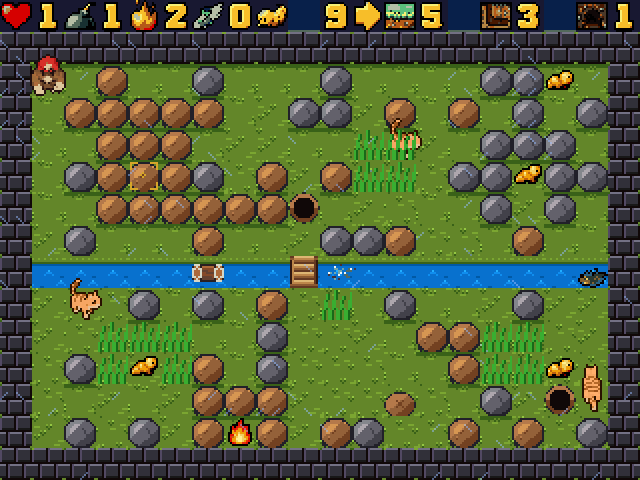
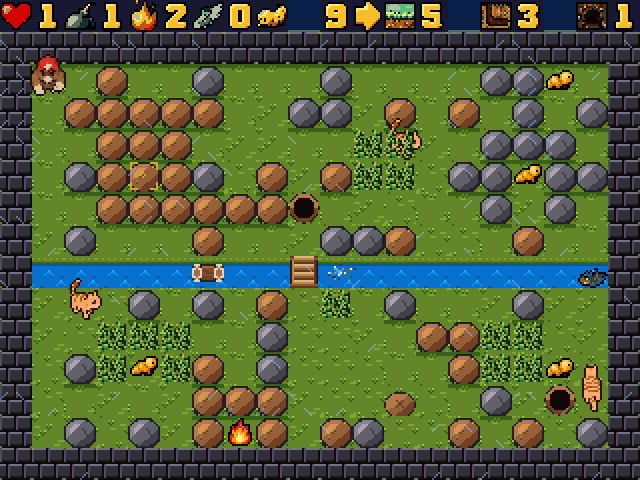
Art: the second AI batch through the pipeline; transparent corn and tall grass overlays; preview shots
The consistency pass (cutting, scale, anchoring, family palettes, outline, facing with auto-mirror,
seams) takes all 291 GENERATED strips: 291 imported, 12 flags on 9 strips. corn_v2 and tall_grass_v2
now replace the full-cell corn and tall grass when imported (plants colour family, no outline, a
tileset no longer redraws them: overlays.txt), so the moles show through the stalks. The preview build
keeps the code-drawn tileset (the v2 AI tiles lose the walls underground); make preview also writes
docs/art-preview/tiles-compare-v2.png (code vs v2, every season's surface and underground) and more
in-game shots (each season, the bosses, corn over a mole, fog, night, battle, co-op). TODO.md: Review
notes only (no Status changed).

diff --git a/tools/tiles_compare.py b/tools/tiles_compare.py
@@ -1,10 +1,11 @@
 #!/usr/bin/env python3
 """Side-by-side comparison of two terrain tilesets in the game (make preview):
 
-    tiles_compare.py <headless A> <label A> <headless B> <label B> <out.png>
+    tiles_compare.py <headless A> <label A> <headless B> <label B> <out.png> [all]
 
-The same three scenes (spring surface, underground, winter) are captured with both headless
-runners; each row shows A and B at 1x, then the middle of the screen of A and B at 2x.
+The same scenes are captured with both headless runners: three (spring surface, underground,
+winter), or with "all" the surface and an underground of each season (8 rows); each row shows A
+and B at 1x, then the middle of the screen of A and B at 2x.
 MIT licence, (c) 2026 Pierre-Louis Boyer (8BCraft).
 """
 import os
@@ -17,6 +18,14 @@ from PIL import Image, ImageDraw
 SCENES = [("spring surface (spring-3)", ["--opt", "level=spring-3"]),
           ("underground (spring-6, depth 1)", ["--opt", "level=spring-6", "--opt", "view=1"]),
           ("winter (winter-1)", ["--opt", "level=winter-1"])]
+SCENES_ALL = [("spring surface (spring-3)", ["--opt", "level=spring-3"]),
+              ("spring underground (spring-6, depth 1)", ["--opt", "level=spring-6", "--opt", "view=1"]),
+              ("summer surface (summer-2)", ["--opt", "level=summer-2"]),
+              ("summer underground (summer-6, depth 1)", ["--opt", "level=summer-6", "--opt", "view=1"]),
+              ("autumn surface (autumn-2)", ["--opt", "level=autumn-2"]),
+              ("autumn underground (autumn-3, depth 1)", ["--opt", "level=autumn-3", "--opt", "view=1"]),
+              ("winter surface (winter-1)", ["--opt", "level=winter-1"]),
+              ("winter underground (winter-4, depth 1)", ["--opt", "level=winter-4", "--opt", "view=1"])]
 
 
 def shot(exe, args, path):
@@ -27,16 +36,17 @@ def shot(exe, args, path):
 
 def main():
     ea, la, eb, lb, out = sys.argv[1:6]
+    scenes = SCENES_ALL if len(sys.argv) > 6 and sys.argv[6] == "all" else SCENES
     tmp = tempfile.mkdtemp()
-    W, H, G, T = 256, 224, 8, 14
+    W, H, G, T = 320, 240, 8, 14
     CW, CH = 128, 112                           # 2x crop: the middle of the playfield
     width = 2 * W + 4 * CW + 4 * G
-    img = Image.new("RGB", (width, len(SCENES) * (H + T + G) + T), (24, 24, 32))
+    img = Image.new("RGB", (width, len(scenes) * (H + T + G) + T), (24, 24, 32))
     d = ImageDraw.Draw(img)
     heads = [(0, la + " 1x"), (W + G, lb + " 1x"), (2 * W + 2 * G, la + " 2x"), (2 * W + 3 * G + 2 * CW, lb + " 2x")]
     for x, t in heads:
         d.text((x + 2, 1), t, fill=(255, 255, 255))
-    for i, (name, args) in enumerate(SCENES):
+    for i, (name, args) in enumerate(scenes):
         y = T + i * (H + T + G)
         d.text((2, y), name, fill=(255, 220, 120))
         y += T

diff --git a/tools/art_sync.py b/tools/art_sync.py
@@ -47,6 +47,9 @@ sys.path.insert(0, os.path.join(GAME, "tools"))
 
 STATUSES = ("TODO", "GENERATED", "VALIDATED", "REJECTED")
 FILL_GROUPS = ("terrain", "terrain_v2", "propbg")   # strips whose frames fill their cell
+# transparent overlays (extras) that take the place of a props cell when they are imported: the game draws corn
+# and tall grass over the characters too, so the overlay must let them show through its gaps
+OVERLAYS = {"corn_v2": "corn", "tall_grass_v2": "tall_grass"}
 V2_STYLE = ("very low detail, 3-4 flat shades per material, large clear shapes, no noise or texture "
             "speckles, designed to be displayed at 16x16 pixels, strong silhouettes, seamless")
 LOGO_SIZE = (256, 64)
@@ -461,6 +464,15 @@ def sync(args, report_print=print):
             imported[left] = flip(imported[s.id])
             report.append((left, "", "mirrored from %s (no imported left strip)" % s.id))
 
+    # the transparent overlays replace the full-cell corn and tall grass (a tileset must not redraw them then:
+    # overlays.txt next to the sheets lists them for the asset build)
+    overlays = []
+    for v2, base in sorted(OVERLAYS.items()):
+        if v2 in imported and base in strips:
+            imported[base] = imported[v2]
+            overlays.append(base)
+            report.append((base, "", "replaced by the transparent overlay %s" % v2))
+
     # assemble the sheets: placeholders + imported cells
     out_dir = args.out
     written = []
@@ -505,6 +517,12 @@ def sync(args, report_print=print):
     for sheet, n, im in written:
         im.save(os.path.join(out_dir, sheets.SHEETS[sheet]["file"]))
     logo.save(os.path.join(out_dir, "title_logo.png"))
+    ov = os.path.join(out_dir, "overlays.txt")
+    if overlays:
+        with open(ov, "w", encoding="utf-8", newline="\n") as f:
+            f.write("\n".join(overlays) + "\n")
+    elif os.path.exists(ov):
+        os.remove(ov)
     if v2:
         d = os.path.join(out_dir, "tilesets", "ai_v2")
         os.makedirs(d, exist_ok=True)

diff --git a/tools/art_consistency.py b/tools/art_consistency.py
@@ -52,7 +52,10 @@ FILL_GROUPS = ("terrain", "terrain_v2", "propbg")
 SOLID_IDS = ("hud_panel",)
 EDGE_ANCHOR = {"expl_h": "X", "expl_v": "Y", "expl_end_left": "r", "expl_end_right": "l",
                "expl_end_up": "b", "expl_end_down": "t"}
-NO_OUTLINE_IDS = ("hud_panel", "tomato_shadow", "spray", "wind", "steam")
+NO_OUTLINE_IDS = ("hud_panel", "tomato_shadow", "spray", "wind", "steam", "corn_v2", "tall_grass_v2")
+# transparent overlays drawn in a props cell's place (tools/art_sync.py OVERLAYS): that prop's colour family,
+# no outline (thin stalks would turn into outline only)
+OVERLAY_OF = {"corn_v2": "corn", "tall_grass_v2": "tall_grass"}
 LOGO_SIZE = (256, 64)
 # tiles that are repeated next to each other in the levels: they must tile seamlessly
 SEAMLESS = {"grass": "hv", "soft_dirt": "hv", "tunnel": "hv", "water": "hv", "ice": "hv", "mud": "hv",
@@ -98,6 +101,9 @@ def palette_key(s):
     the terrain, or a colour family of the terrain-like props (sheets.PROP_PALETTES)."""
     if s.group in ("terrain", "terrain_v2"):
         return (s.group, s.season)
+    if s.id in OVERLAY_OF:
+        import sheets
+        return ("propbg", sheets.prop_palette(OVERLAY_OF[s.id]))
     if s.group == "propbg":
         import sheets
         return ("propbg", sheets.prop_palette(s.entry.name))

diff --git a/games/bombermole/tools/build_assets.py b/games/bombermole/tools/build_assets.py
@@ -167,10 +167,14 @@ def main():
         extra_img = rsasset.load(p) if os.path.exists(p) else None
     # a tileset may also redraw some props and sprites (tilesets/<name>/<entry>.png, frames side by side)
     prop_override = {}
+    keep = set()                  # transparent AI overlays imported by art_sync: no tileset redraws them
+    ov = os.path.join(a.art, "overlays.txt")
+    if os.path.exists(ov):
+        keep = set(open(ov, encoding="utf-8").read().split())
     if a.tileset:
         for e in sheets.ENTRIES:
             q = os.path.join(a.tileset, e.name + ".png")
-            if e.sheet == "props" and os.path.exists(q):
+            if e.sheet == "props" and os.path.exists(q) and e.name not in keep:
                 prop_override[e.name] = rsasset.load(q)
     c, h = [], []
     c.append("/* Generated by games/bombermole/tools/build_assets.py from %s (tiles: %s). Do not edit. */" %

diff --git a/games/bombermole/art/incoming/TODO.md b/games/bombermole/art/incoming/TODO.md
@@ -71,9 +71,9 @@ Rules:
 | mole_walk_left | GENERATED | characters.png | 16x16 | 3 | The mole walking LEFT (side view, nose pointing left). 3 frames left to right, evenly spaced: 1) standing; 2) left foot forward; 3) right foot forward. Frame size 16x16 (draw each about 128x128). Flat magenta around the drawing. | from first-batch sheet |
 | mole_walk_right | GENERATED | characters.png | 16x16 | 3 | The mole walking RIGHT (side view, nose pointing right). 3 frames left to right, evenly spaced: 1) standing; 2) left foot forward; 3) right foot forward. Frame size 16x16 (draw each about 128x128). Flat magenta around the drawing. | from first-batch sheet |
 | mole_dig_down | GENERATED | characters.png | 16x16 | 2 | The mole digging DOWNWARD (front view), claws scraping the ground in front, dirt clods flying. 2 frames left to right, evenly spaced: 1) claws raised; 2) claws down, dirt flying. Frame size 16x16 (draw each about 128x128). Flat magenta around the drawing. | from first-batch sheet |
-| mole_dig_up | GENERATED | characters.png | 16x16 | 2 | The mole digging UPWARD (back view), claws scraping above, dirt falling. 2 frames left to right, evenly spaced: 1) claws raised; 2) claws down, dirt flying. Frame size 16x16 (draw each about 128x128). Flat magenta around the drawing. | from first-batch sheet |
-| mole_dig_left | GENERATED | characters.png | 16x16 | 2 | The mole digging to the LEFT (side view), claws forward, dirt flying. 2 frames left to right, evenly spaced: 1) claws back; 2) claws forward, dirt flying. Frame size 16x16 (draw each about 128x128). Flat magenta around the drawing. | from first-batch sheet |
-| mole_dig_right | GENERATED | characters.png | 16x16 | 2 | The mole digging to the RIGHT (side view), claws forward, dirt flying. 2 frames left to right, evenly spaced: 1) claws back; 2) claws forward, dirt flying. Frame size 16x16 (draw each about 128x128). Flat magenta around the drawing. | from first-batch sheet |
+| mole_dig_up | GENERATED | characters.png | 16x16 | 2 | The mole digging UPWARD (back view), claws scraping above, dirt falling. 2 frames left to right, evenly spaced: 1) claws raised; 2) claws down, dirt flying. Frame size 16x16 (draw each about 128x128). Flat magenta around the drawing. | from first-batch sheet Review: the flying dirt spills out of the 24x24 cell (4-5% cropped): keep the dirt closer to the mole. |
+| mole_dig_left | GENERATED | characters.png | 16x16 | 2 | The mole digging to the LEFT (side view), claws forward, dirt flying. 2 frames left to right, evenly spaced: 1) claws back; 2) claws forward, dirt flying. Frame size 16x16 (draw each about 128x128). Flat magenta around the drawing. | from first-batch sheet Review: the flying dirt spills out of the 24x24 cell (4-6% cropped): keep the dirt closer to the mole. |
+| mole_dig_right | GENERATED | characters.png | 16x16 | 2 | The mole digging to the RIGHT (side view), claws forward, dirt flying. 2 frames left to right, evenly spaced: 1) claws back; 2) claws forward, dirt flying. Frame size 16x16 (draw each about 128x128). Flat magenta around the drawing. | from first-batch sheet Review: the flying dirt spills out of the 24x24 cell (5-8% cropped): keep the dirt closer to the mole. |
 | mole_place_bomb | GENERATED | characters.png | 16x16 | 1 | The mole (front view) setting a round black bomb down in front of its feet. One frame. Frame size 16x16 (draw each about 128x128). Flat magenta around the drawing. | from first-batch sheet |
 | mole_hurt | GENERATED | characters.png | 16x16 | 1 | The mole (front view) hurt: flinching, eyes squeezed shut, small yellow stars around the helmet. One frame. Frame size 16x16 (draw each about 128x128). Flat magenta around the drawing. | from first-batch sheet |
 | mole_death | GENERATED | characters.png | 16x16 | 4 | The mole knocked out. 4 frames left to right, evenly spaced: 1) dazed, spiral eyes, stars; 2) tipping over backwards; 3) lying flat on its back; 4) a little ghost of the mole floating up with a halo. Frame size 16x16 (draw each about 128x128). Flat magenta around the drawing. | from first-batch sheet |
@@ -235,7 +235,7 @@ Rules:
 | steam | GENERATED | props.png | 16x16 | 1 | A white puff of steam. One frame. Frame size 16x16 (draw each about 128x128). Flat magenta around the drawing. |  |
 | corn | GENERATED | props.png | 16x16 | 1 | Corn plants seen from above, green stalks with yellow ears (fills the cell). One frame. Frame size 16x16 (draw each about 128x128). Fills the whole cell edge to edge, no magenta inside. |  |
 | ice | GENERATED | props.png | 16x16 | 1 | Slippery ice floor (fills the cell, tiles seamlessly), pale blue with white glints. One frame. Frame size 16x16 (draw each about 128x128). Fills the whole cell edge to edge, no magenta inside. |  |
-| thin_ice | GENERATED | props.png | 16x16 | 2 | Thin ice (fills the cell), darker blue-grey, water showing through. 2 frames left to right, evenly spaced: 1) intact; 2) cracked. Frame size 16x16 (draw each about 128x128). Fills the whole cell edge to edge, no magenta inside. |  |
+| thin_ice | GENERATED | props.png | 16x16 | 2 | Thin ice (fills the cell), darker blue-grey, water showing through. 2 frames left to right, evenly spaced: 1) intact; 2) cracked. Frame size 16x16 (draw each about 128x128). Fills the whole cell edge to edge, no magenta inside. | Review: not seamless left/right (edges x2.4 the inner contrast): a strip of thin ice shows a grid of seams; regenerate with matching edges. |
 
 ## 7. The other bosses
 
@@ -248,7 +248,7 @@ Rules:
 | splat | GENERATED | props.png | 16x16 | 1 | A squashed tomato splat on the ground (fills the cell, on grass). One frame. Frame size 16x16 (draw each about 128x128). Fills the whole cell edge to edge, no magenta inside. |  |
 | badger | GENERATED | props.png | 32x32 | 4 | The badger (summer mini-boss), 32x32, front view. 4 frames left to right, evenly spaced: 1) walking; 2) walking, other paws; 3) digging, dirt flying; 4) hurt. Frame size 32x32 (draw each about 256x256). Flat magenta around the drawing. |  |
 | fox | GENERATED | props.png | 32x32 | 4 | The fox (autumn boss), 32x32, side view facing LEFT. 4 frames left to right, evenly spaced: 1) running; 2) running, other legs; 3) leaping; 4) hurt, eyes shut. Frame size 32x32 (draw each about 256x256). Flat magenta around the drawing. |  |
-| owl | GENERATED | props.png | 32x32 | 4 | The snowy owl (winter boss), 32x32, front view. 4 frames left to right, evenly spaced: 1) perched, wings folded; 2) flapping, wings half open; 3) swooping, wings spread; 4) hurt, eyes shut. Frame size 32x32 (draw each about 256x256). Flat magenta around the drawing. | Review: frame 3: wings exceed the cell |
+| owl | GENERATED | props.png | 32x32 | 4 | The snowy owl (winter boss), 32x32, front view. 4 frames left to right, evenly spaced: 1) perched, wings folded; 2) flapping, wings half open; 3) swooping, wings spread; 4) hurt, eyes shut. Frame size 32x32 (draw each about 256x256). Flat magenta around the drawing. | Review: frame 3: wings exceed the cell Review: frame 4 (hurt) is 13% outside the 48x48 cell (the stars and a wing are cropped): regenerate it smaller, inside the frame like frames 1-3. |
 
 ## 8. Later gimmicks (planned levels)
 
@@ -288,7 +288,7 @@ Rules:
 | tile_v2_spring_hard_rock | GENERATED | tilesets/ai_v2/tiles.png | 16x16 | 1 | Spring tile v2, hard rock: A hard grey boulder block (bombs only), fills the cell. Style: very low detail, 3-4 flat shades per material, large clear shapes, no noise or texture speckles, designed to be displayed at 16x16 pixels, strong silhouettes, seamless. One frame, 16x16 (draw about 128x128). Spring palette, the same colours as the other spring v2 tiles. Must tile seamlessly; no magenta inside. | Built-in imagegen; exported at requested scale; alpha accepted. |
 | tile_v2_spring_stone | GENERATED | tilesets/ai_v2/tiles.png | 16x16 | 1 | Spring tile v2, stone: An unbreakable block: dark stone bricks, fills the cell. Style: very low detail, 3-4 flat shades per material, large clear shapes, no noise or texture speckles, designed to be displayed at 16x16 pixels, strong silhouettes, seamless. One frame, 16x16 (draw about 128x128). Spring palette, the same colours as the other spring v2 tiles. Must tile seamlessly; no magenta inside. | Built-in imagegen; exported at requested scale; alpha accepted. |
 | tile_v2_spring_roots | GENERATED | tilesets/ai_v2/tiles.png | 16x16 | 1 | Spring tile v2, roots: Tangled tree roots across soil, blocking the way, fills the cell. Style: very low detail, 3-4 flat shades per material, large clear shapes, no noise or texture speckles, designed to be displayed at 16x16 pixels, strong silhouettes, seamless. One frame, 16x16 (draw about 128x128). Spring palette, the same colours as the other spring v2 tiles. Must tile seamlessly; no magenta inside. | Built-in imagegen; exported at requested scale; alpha accepted. |
-| tile_v2_spring_tunnel | GENERATED | tilesets/ai_v2/tiles.png | 16x16 | 1 | Spring tile v2, tunnel: Underground tunnel floor: packed dark earth with pebbles, fills the cell, tiles seamlessly. Style: very low detail, 3-4 flat shades per material, large clear shapes, no noise or texture speckles, designed to be displayed at 16x16 pixels, strong silhouettes, seamless. One frame, 16x16 (draw about 128x128). Spring palette, the same colours as the other spring v2 tiles. Must tile seamlessly; no magenta inside. | Built-in imagegen; exported at requested scale; alpha accepted. |
+| tile_v2_spring_tunnel | GENERATED | tilesets/ai_v2/tiles.png | 16x16 | 1 | Spring tile v2, tunnel: Underground tunnel floor: packed dark earth with pebbles, fills the cell, tiles seamlessly. Style: very low detail, 3-4 flat shades per material, large clear shapes, no noise or texture speckles, designed to be displayed at 16x16 pixels, strong silhouettes, seamless. One frame, 16x16 (draw about 128x128). Spring palette, the same colours as the other spring v2 tiles. Must tile seamlessly; no magenta inside. | Built-in imagegen; exported at requested scale; alpha accepted. Review: underground the v2 tunnel floor and soft dirt are too close in value: walls and corridors are hard to tell apart (the code tiles stay the default); a darker, flatter tunnel floor would fix it. |
 | tile_v2_spring_hole_down | GENERATED | tilesets/ai_v2/tiles.png | 16x16 | 1 | Spring tile v2, hole down: A burrow hole going down: black hole with an earthen rim, on tunnel floor, fills the cell. Style: very low detail, 3-4 flat shades per material, large clear shapes, no noise or texture speckles, designed to be displayed at 16x16 pixels, strong silhouettes, seamless. One frame, 16x16 (draw about 128x128). Spring palette, the same colours as the other spring v2 tiles. Must tile seamlessly; no magenta inside. | Built-in imagegen; exported at requested scale; alpha accepted. |
 | tile_v2_spring_hole_up | TODO | tilesets/ai_v2/tiles.png | 16x16 | 1 | Spring tile v2, hole up: A hole up: light falling from above onto the tunnel floor, fills the cell. Style: very low detail, 3-4 flat shades per material, large clear shapes, no noise or texture speckles, designed to be displayed at 16x16 pixels, strong silhouettes, seamless. One frame, 16x16 (draw about 128x128). Spring palette, the same colours as the other spring v2 tiles. Must tile seamlessly; no magenta inside. | Obsolete: ladders are the way up. |
 | tile_v2_spring_ladder | GENERATED | tilesets/ai_v2/tiles.png | 16x16 | 1 | Spring tile v2, ladder: A wooden ladder going up, on tunnel floor, fills the cell. Style: very low detail, 3-4 flat shades per material, large clear shapes, no noise or texture speckles, designed to be displayed at 16x16 pixels, strong silhouettes, seamless. One frame, 16x16 (draw about 128x128). Spring palette, the same colours as the other spring v2 tiles. Must tile seamlessly; no magenta inside. | Built-in imagegen; exported at requested scale; alpha accepted. |
@@ -309,12 +309,12 @@ Rules:
 | tile_v2_spring_water_edge | GENERATED | tilesets/ai_v2/tiles_extra.png | 16x16 | 1 | Spring tile v2, water edge: Water bank: the water tile with a strip of grass bank along its TOP edge. Style: very low detail, 3-4 flat shades per material, large clear shapes, no noise or texture speckles, designed to be displayed at 16x16 pixels, strong silhouettes, seamless. One frame, 16x16 (draw about 128x128). Spring palette, the same colours as the other spring v2 tiles. Must tile seamlessly; no magenta inside. | Built-in imagegen; exported at requested scale; alpha accepted. |
 | tile_v2_summer_grass | GENERATED | tilesets/ai_v2/tiles.png | 16x16 | 1 | Summer tile v2, grass: Surface floor: short grass (in WINTER: snow-covered ground), fills the cell, tiles seamlessly. Style: very low detail, 3-4 flat shades per material, large clear shapes, no noise or texture speckles, designed to be displayed at 16x16 pixels, strong silhouettes, seamless. One frame, 16x16 (draw about 128x128). Summer palette, the same colours as the other summer v2 tiles. Must tile seamlessly; no magenta inside. | Built-in imagegen; exported at requested scale; alpha accepted. |
 | tile_v2_summer_grass_edge | GENERATED | tilesets/ai_v2/tiles.png | 16x16 | 1 | Summer tile v2, grass edge: Surface floor with a darker shadow band along the TOP edge (a wall stands above), fills the cell. Style: very low detail, 3-4 flat shades per material, large clear shapes, no noise or texture speckles, designed to be displayed at 16x16 pixels, strong silhouettes, seamless. One frame, 16x16 (draw about 128x128). Summer palette, the same colours as the other summer v2 tiles. Must tile seamlessly; no magenta inside. | Built-in imagegen; exported at requested scale; alpha accepted. |
-| tile_v2_summer_soft_dirt | GENERATED | tilesets/ai_v2/tiles.png | 16x16 | 1 | Summer tile v2, soft dirt: A block of soft diggable soil, slightly raised (in SUMMER: dry cracked sandy soil), fills the cell. Style: very low detail, 3-4 flat shades per material, large clear shapes, no noise or texture speckles, designed to be displayed at 16x16 pixels, strong silhouettes, seamless. One frame, 16x16 (draw about 128x128). Summer palette, the same colours as the other summer v2 tiles. Must tile seamlessly; no magenta inside. | Built-in imagegen; exported at requested scale; alpha accepted. |
+| tile_v2_summer_soft_dirt | GENERATED | tilesets/ai_v2/tiles.png | 16x16 | 1 | Summer tile v2, soft dirt: A block of soft diggable soil, slightly raised (in SUMMER: dry cracked sandy soil), fills the cell. Style: very low detail, 3-4 flat shades per material, large clear shapes, no noise or texture speckles, designed to be displayed at 16x16 pixels, strong silhouettes, seamless. One frame, 16x16 (draw about 128x128). Summer palette, the same colours as the other summer v2 tiles. Must tile seamlessly; no magenta inside. | Built-in imagegen; exported at requested scale; alpha accepted. Review: not seamless top/bottom (x2.1): dirt walls show seams. |
 | tile_v2_summer_dirt_crack | GENERATED | tilesets/ai_v2/tiles.png | 16x16 | 1 | Summer tile v2, dirt crack: The same soil block, half dug: deep cracks, fills the cell. Style: very low detail, 3-4 flat shades per material, large clear shapes, no noise or texture speckles, designed to be displayed at 16x16 pixels, strong silhouettes, seamless. One frame, 16x16 (draw about 128x128). Summer palette, the same colours as the other summer v2 tiles. Must tile seamlessly; no magenta inside. | Built-in imagegen; exported at requested scale; alpha accepted. |
 | tile_v2_summer_hard_rock | GENERATED | tilesets/ai_v2/tiles.png | 16x16 | 1 | Summer tile v2, hard rock: A hard grey boulder block (bombs only), fills the cell. Style: very low detail, 3-4 flat shades per material, large clear shapes, no noise or texture speckles, designed to be displayed at 16x16 pixels, strong silhouettes, seamless. One frame, 16x16 (draw about 128x128). Summer palette, the same colours as the other summer v2 tiles. Must tile seamlessly; no magenta inside. | Built-in imagegen; exported at requested scale; alpha accepted. |
 | tile_v2_summer_stone | GENERATED | tilesets/ai_v2/tiles.png | 16x16 | 1 | Summer tile v2, stone: An unbreakable block: dark stone bricks, fills the cell. Style: very low detail, 3-4 flat shades per material, large clear shapes, no noise or texture speckles, designed to be displayed at 16x16 pixels, strong silhouettes, seamless. One frame, 16x16 (draw about 128x128). Summer palette, the same colours as the other summer v2 tiles. Must tile seamlessly; no magenta inside. | Built-in imagegen; exported at requested scale; alpha accepted. |
 | tile_v2_summer_roots | GENERATED | tilesets/ai_v2/tiles.png | 16x16 | 1 | Summer tile v2, roots: Tangled tree roots across soil, blocking the way, fills the cell. Style: very low detail, 3-4 flat shades per material, large clear shapes, no noise or texture speckles, designed to be displayed at 16x16 pixels, strong silhouettes, seamless. One frame, 16x16 (draw about 128x128). Summer palette, the same colours as the other summer v2 tiles. Must tile seamlessly; no magenta inside. | Built-in imagegen; exported at requested scale; alpha accepted. |
-| tile_v2_summer_tunnel | GENERATED | tilesets/ai_v2/tiles.png | 16x16 | 1 | Summer tile v2, tunnel: Underground tunnel floor: packed dark earth with pebbles, fills the cell, tiles seamlessly. Style: very low detail, 3-4 flat shades per material, large clear shapes, no noise or texture speckles, designed to be displayed at 16x16 pixels, strong silhouettes, seamless. One frame, 16x16 (draw about 128x128). Summer palette, the same colours as the other summer v2 tiles. Must tile seamlessly; no magenta inside. | Built-in imagegen; exported at requested scale; alpha accepted. |
+| tile_v2_summer_tunnel | GENERATED | tilesets/ai_v2/tiles.png | 16x16 | 1 | Summer tile v2, tunnel: Underground tunnel floor: packed dark earth with pebbles, fills the cell, tiles seamlessly. Style: very low detail, 3-4 flat shades per material, large clear shapes, no noise or texture speckles, designed to be displayed at 16x16 pixels, strong silhouettes, seamless. One frame, 16x16 (draw about 128x128). Summer palette, the same colours as the other summer v2 tiles. Must tile seamlessly; no magenta inside. | Built-in imagegen; exported at requested scale; alpha accepted. Review: underground the v2 tunnel floor and soft dirt are too close in value: walls and corridors are hard to tell apart (the code tiles stay the default); a darker, flatter tunnel floor would fix it. |
 | tile_v2_summer_hole_down | GENERATED | tilesets/ai_v2/tiles.png | 16x16 | 1 | Summer tile v2, hole down: A burrow hole going down: black hole with an earthen rim, on tunnel floor, fills the cell. Style: very low detail, 3-4 flat shades per material, large clear shapes, no noise or texture speckles, designed to be displayed at 16x16 pixels, strong silhouettes, seamless. One frame, 16x16 (draw about 128x128). Summer palette, the same colours as the other summer v2 tiles. Must tile seamlessly; no magenta inside. | Built-in imagegen; exported at requested scale; alpha accepted. |
 | tile_v2_summer_hole_up | TODO | tilesets/ai_v2/tiles.png | 16x16 | 1 | Summer tile v2, hole up: A hole up: light falling from above onto the tunnel floor, fills the cell. Style: very low detail, 3-4 flat shades per material, large clear shapes, no noise or texture speckles, designed to be displayed at 16x16 pixels, strong silhouettes, seamless. One frame, 16x16 (draw about 128x128). Summer palette, the same colours as the other summer v2 tiles. Must tile seamlessly; no magenta inside. | Obsolete: ladders are the way up. |
 | tile_v2_summer_ladder | GENERATED | tilesets/ai_v2/tiles.png | 16x16 | 1 | Summer tile v2, ladder: A wooden ladder going up, on tunnel floor, fills the cell. Style: very low detail, 3-4 flat shades per material, large clear shapes, no noise or texture speckles, designed to be displayed at 16x16 pixels, strong silhouettes, seamless. One frame, 16x16 (draw about 128x128). Summer palette, the same colours as the other summer v2 tiles. Must tile seamlessly; no magenta inside. | Built-in imagegen; exported at requested scale; alpha accepted. |
@@ -340,7 +340,7 @@ Rules:
 | tile_v2_autumn_hard_rock | GENERATED | tilesets/ai_v2/tiles.png | 16x16 | 1 | Autumn tile v2, hard rock: A hard grey boulder block (bombs only), fills the cell. Style: very low detail, 3-4 flat shades per material, large clear shapes, no noise or texture speckles, designed to be displayed at 16x16 pixels, strong silhouettes, seamless. One frame, 16x16 (draw about 128x128). Autumn palette, the same colours as the other autumn v2 tiles. Must tile seamlessly; no magenta inside. | Built-in imagegen; exported at requested scale; alpha accepted. |
 | tile_v2_autumn_stone | GENERATED | tilesets/ai_v2/tiles.png | 16x16 | 1 | Autumn tile v2, stone: An unbreakable block: dark stone bricks, fills the cell. Style: very low detail, 3-4 flat shades per material, large clear shapes, no noise or texture speckles, designed to be displayed at 16x16 pixels, strong silhouettes, seamless. One frame, 16x16 (draw about 128x128). Autumn palette, the same colours as the other autumn v2 tiles. Must tile seamlessly; no magenta inside. | Built-in imagegen; exported at requested scale; alpha accepted. |
 | tile_v2_autumn_roots | GENERATED | tilesets/ai_v2/tiles.png | 16x16 | 1 | Autumn tile v2, roots: Tangled tree roots across soil, blocking the way, fills the cell. Style: very low detail, 3-4 flat shades per material, large clear shapes, no noise or texture speckles, designed to be displayed at 16x16 pixels, strong silhouettes, seamless. One frame, 16x16 (draw about 128x128). Autumn palette, the same colours as the other autumn v2 tiles. Must tile seamlessly; no magenta inside. | Built-in imagegen; exported at requested scale; alpha accepted. |
-| tile_v2_autumn_tunnel | GENERATED | tilesets/ai_v2/tiles.png | 16x16 | 1 | Autumn tile v2, tunnel: Underground tunnel floor: packed dark earth with pebbles, fills the cell, tiles seamlessly. Style: very low detail, 3-4 flat shades per material, large clear shapes, no noise or texture speckles, designed to be displayed at 16x16 pixels, strong silhouettes, seamless. One frame, 16x16 (draw about 128x128). Autumn palette, the same colours as the other autumn v2 tiles. Must tile seamlessly; no magenta inside. | Built-in imagegen; exported at requested scale; alpha accepted. |
+| tile_v2_autumn_tunnel | GENERATED | tilesets/ai_v2/tiles.png | 16x16 | 1 | Autumn tile v2, tunnel: Underground tunnel floor: packed dark earth with pebbles, fills the cell, tiles seamlessly. Style: very low detail, 3-4 flat shades per material, large clear shapes, no noise or texture speckles, designed to be displayed at 16x16 pixels, strong silhouettes, seamless. One frame, 16x16 (draw about 128x128). Autumn palette, the same colours as the other autumn v2 tiles. Must tile seamlessly; no magenta inside. | Built-in imagegen; exported at requested scale; alpha accepted. Review: underground the v2 tunnel floor and soft dirt are too close in value: walls and corridors are hard to tell apart (the code tiles stay the default); a darker, flatter tunnel floor would fix it. |
 | tile_v2_autumn_hole_down | GENERATED | tilesets/ai_v2/tiles.png | 16x16 | 1 | Autumn tile v2, hole down: A burrow hole going down: black hole with an earthen rim, on tunnel floor, fills the cell. Style: very low detail, 3-4 flat shades per material, large clear shapes, no noise or texture speckles, designed to be displayed at 16x16 pixels, strong silhouettes, seamless. One frame, 16x16 (draw about 128x128). Autumn palette, the same colours as the other autumn v2 tiles. Must tile seamlessly; no magenta inside. | Built-in imagegen; exported at requested scale; alpha accepted. |
 | tile_v2_autumn_hole_up | TODO | tilesets/ai_v2/tiles.png | 16x16 | 1 | Autumn tile v2, hole up: A hole up: light falling from above onto the tunnel floor, fills the cell. Style: very low detail, 3-4 flat shades per material, large clear shapes, no noise or texture speckles, designed to be displayed at 16x16 pixels, strong silhouettes, seamless. One frame, 16x16 (draw about 128x128). Autumn palette, the same colours as the other autumn v2 tiles. Must tile seamlessly; no magenta inside. | Obsolete: ladders are the way up. |
 | tile_v2_autumn_ladder | GENERATED | tilesets/ai_v2/tiles.png | 16x16 | 1 | Autumn tile v2, ladder: A wooden ladder going up, on tunnel floor, fills the cell. Style: very low detail, 3-4 flat shades per material, large clear shapes, no noise or texture speckles, designed to be displayed at 16x16 pixels, strong silhouettes, seamless. One frame, 16x16 (draw about 128x128). Autumn palette, the same colours as the other autumn v2 tiles. Must tile seamlessly; no magenta inside. | Built-in imagegen; exported at requested scale; alpha accepted. |
@@ -366,7 +366,7 @@ Rules:
 | tile_v2_winter_hard_rock | GENERATED | tilesets/ai_v2/tiles.png | 16x16 | 1 | Winter tile v2, hard rock: A hard grey boulder block (bombs only), fills the cell. Style: very low detail, 3-4 flat shades per material, large clear shapes, no noise or texture speckles, designed to be displayed at 16x16 pixels, strong silhouettes, seamless. One frame, 16x16 (draw about 128x128). Winter palette, the same colours as the other winter v2 tiles. Must tile seamlessly; no magenta inside. | Built-in imagegen; exported at requested scale; alpha accepted. |
 | tile_v2_winter_stone | GENERATED | tilesets/ai_v2/tiles.png | 16x16 | 1 | Winter tile v2, stone: An unbreakable block: dark stone bricks, fills the cell. Style: very low detail, 3-4 flat shades per material, large clear shapes, no noise or texture speckles, designed to be displayed at 16x16 pixels, strong silhouettes, seamless. One frame, 16x16 (draw about 128x128). Winter palette, the same colours as the other winter v2 tiles. Must tile seamlessly; no magenta inside. | Built-in imagegen; exported at requested scale; alpha accepted. |
 | tile_v2_winter_roots | GENERATED | tilesets/ai_v2/tiles.png | 16x16 | 1 | Winter tile v2, roots: Tangled tree roots across soil, blocking the way, fills the cell. Style: very low detail, 3-4 flat shades per material, large clear shapes, no noise or texture speckles, designed to be displayed at 16x16 pixels, strong silhouettes, seamless. One frame, 16x16 (draw about 128x128). Winter palette, the same colours as the other winter v2 tiles. Must tile seamlessly; no magenta inside. | Built-in imagegen; exported at requested scale; alpha accepted. |
-| tile_v2_winter_tunnel | GENERATED | tilesets/ai_v2/tiles.png | 16x16 | 1 | Winter tile v2, tunnel: Underground tunnel floor: packed dark earth with pebbles, fills the cell, tiles seamlessly. Style: very low detail, 3-4 flat shades per material, large clear shapes, no noise or texture speckles, designed to be displayed at 16x16 pixels, strong silhouettes, seamless. One frame, 16x16 (draw about 128x128). Winter palette, the same colours as the other winter v2 tiles. Must tile seamlessly; no magenta inside. | Built-in imagegen; exported at requested scale; alpha accepted. |
+| tile_v2_winter_tunnel | GENERATED | tilesets/ai_v2/tiles.png | 16x16 | 1 | Winter tile v2, tunnel: Underground tunnel floor: packed dark earth with pebbles, fills the cell, tiles seamlessly. Style: very low detail, 3-4 flat shades per material, large clear shapes, no noise or texture speckles, designed to be displayed at 16x16 pixels, strong silhouettes, seamless. One frame, 16x16 (draw about 128x128). Winter palette, the same colours as the other winter v2 tiles. Must tile seamlessly; no magenta inside. | Built-in imagegen; exported at requested scale; alpha accepted. Review: underground the v2 tunnel floor and soft dirt are too close in value: walls and corridors are hard to tell apart (the code tiles stay the default); a darker, flatter tunnel floor would fix it. |
 | tile_v2_winter_hole_down | GENERATED | tilesets/ai_v2/tiles.png | 16x16 | 1 | Winter tile v2, hole down: A burrow hole going down: black hole with an earthen rim, on tunnel floor, fills the cell. Style: very low detail, 3-4 flat shades per material, large clear shapes, no noise or texture speckles, designed to be displayed at 16x16 pixels, strong silhouettes, seamless. One frame, 16x16 (draw about 128x128). Winter palette, the same colours as the other winter v2 tiles. Must tile seamlessly; no magenta inside. | Built-in imagegen; exported at requested scale; alpha accepted. |
 | tile_v2_winter_hole_up | TODO | tilesets/ai_v2/tiles.png | 16x16 | 1 | Winter tile v2, hole up: A hole up: light falling from above onto the tunnel floor, fills the cell. Style: very low detail, 3-4 flat shades per material, large clear shapes, no noise or texture speckles, designed to be displayed at 16x16 pixels, strong silhouettes, seamless. One frame, 16x16 (draw about 128x128). Winter palette, the same colours as the other winter v2 tiles. Must tile seamlessly; no magenta inside. | Obsolete: ladders are the way up. |
 | tile_v2_winter_ladder | GENERATED | tilesets/ai_v2/tiles.png | 16x16 | 1 | Winter tile v2, ladder: A wooden ladder going up, on tunnel floor, fills the cell. Style: very low detail, 3-4 flat shades per material, large clear shapes, no noise or texture speckles, designed to be displayed at 16x16 pixels, strong silhouettes, seamless. One frame, 16x16 (draw about 128x128). Winter palette, the same colours as the other winter v2 tiles. Must tile seamlessly; no magenta inside. | Built-in imagegen; exported at requested scale; alpha accepted. |
@@ -415,8 +415,8 @@ Rules:
 | ID | Status | Sheet | Frame size | Frames | Description / prompt | Notes |
 |---|---|---|---|---|---|---|
 | croc | GENERATED | props.png | 16x16 | 6 | Crocodile in the water, seen from above, head RIGHT: swim x2, the tell (eyes and nostrils up, ripples), snap x2 (jaws open, jaws shut), stunned (belly up, stars). 6 frames left to right, evenly spaced: 1) frame 1; 2) frame 2; 3) frame 3; 4) frame 4; 5) frame 5; 6) frame 6. Frame size 16x16 (draw each about 128x128). Flat magenta around the drawing. | Built-in imagegen; exported at requested scale; alpha accepted. |
-| corn_v2 | GENERATED | props (overlay) | 16x16 | 1 | Corn drawn as a TRANSPARENT OVERLAY (the game draws it over the ground AND over the characters): three tall stalks with long leaves and a yellow cob each, a tassel on top, flat magenta between the stalks (at least a third of the cell), so a mole or a cat in the corn shows through the gaps. No ground. Frame size 16x16 (draw about 128x128). | Built-in imagegen; exported at requested scale; alpha accepted. |
-| tall_grass_v2 | GENERATED | props (overlay) | 16x16 | 1 | Tall grass drawn as a TRANSPARENT OVERLAY (over the ground and over the characters): tufts of long blades, flat magenta between them (at least a third of the cell). No ground. Frame size 16x16. | Built-in imagegen; exported at requested scale; alpha accepted. |
+| corn_v2 | GENERATED | props (overlay) | 16x16 | 1 | Corn drawn as a TRANSPARENT OVERLAY (the game draws it over the ground AND over the characters): three tall stalks with long leaves and a yellow cob each, a tassel on top, flat magenta between the stalks (at least a third of the cell), so a mole or a cat in the corn shows through the gaps. No ground. Frame size 16x16 (draw about 128x128). | Built-in imagegen; exported at requested scale; alpha accepted. Review: at 16 px the thin stalks turn into dark scribbles and the cobs vanish (the mole does show through, good): fewer, thicker stalks and bigger cobs would read better. |
+| tall_grass_v2 | GENERATED | props (overlay) | 16x16 | 1 | Tall grass drawn as a TRANSPARENT OVERLAY (over the ground and over the characters): tufts of long blades, flat magenta between them (at least a third of the cell). No ground. Frame size 16x16. | Built-in imagegen; exported at requested scale; alpha accepted. Review: fine as an overlay; at 16 px the blades are thin: slightly thicker blades with lighter tips would read better against the grass. |
 
 ## 14. Autumn: ants, their nest, eyes in the fog
 
